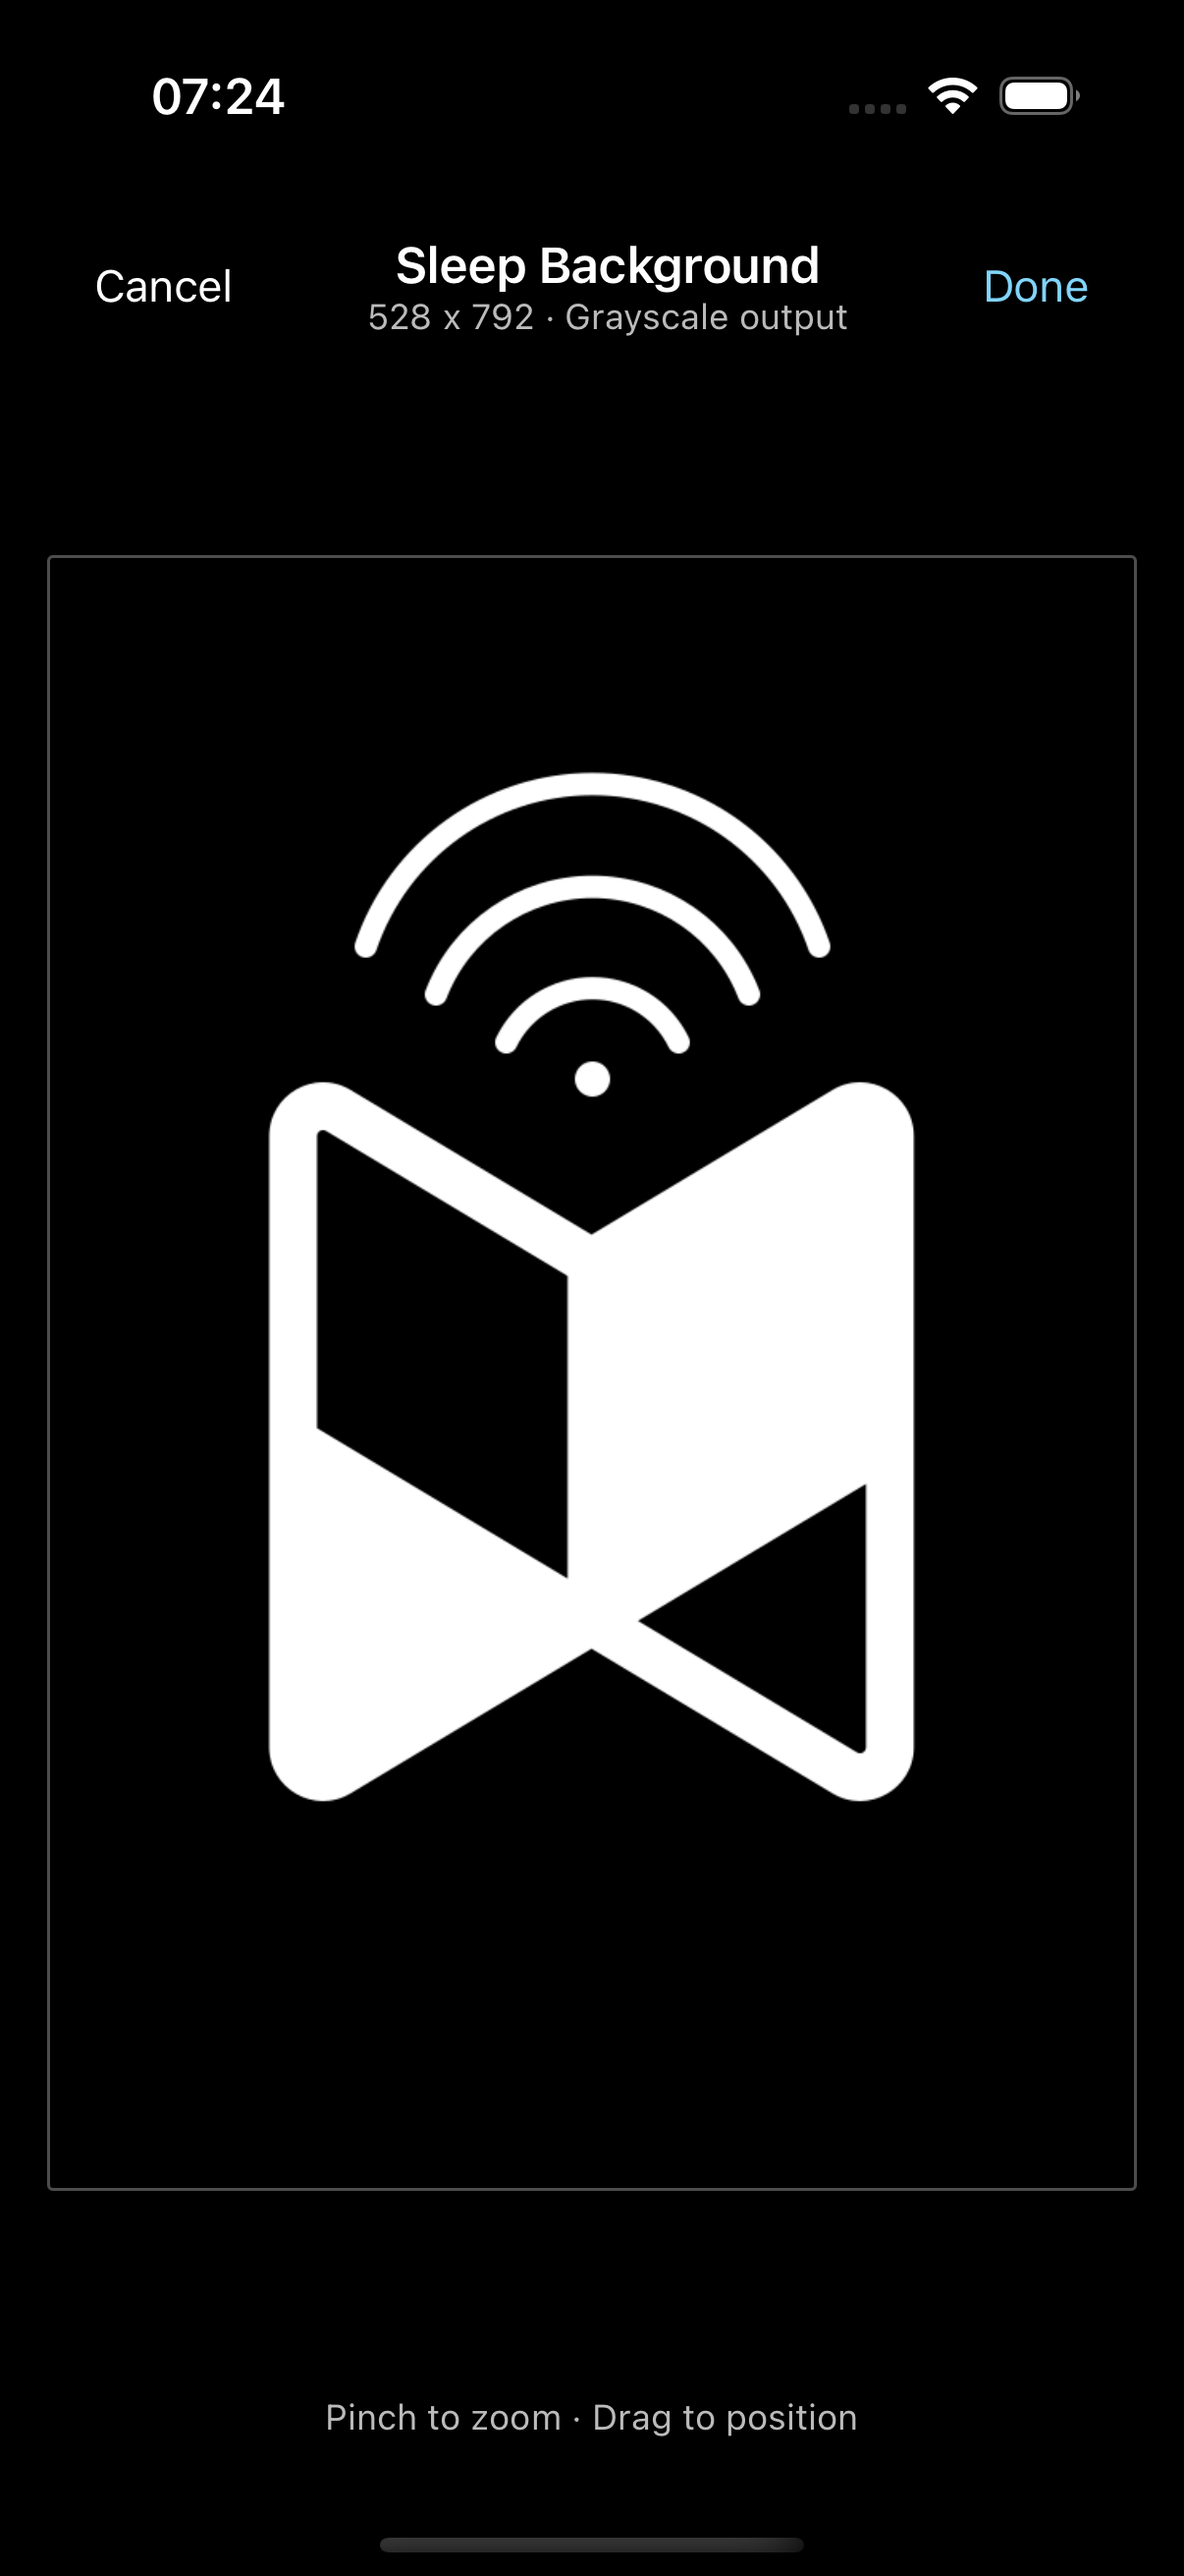
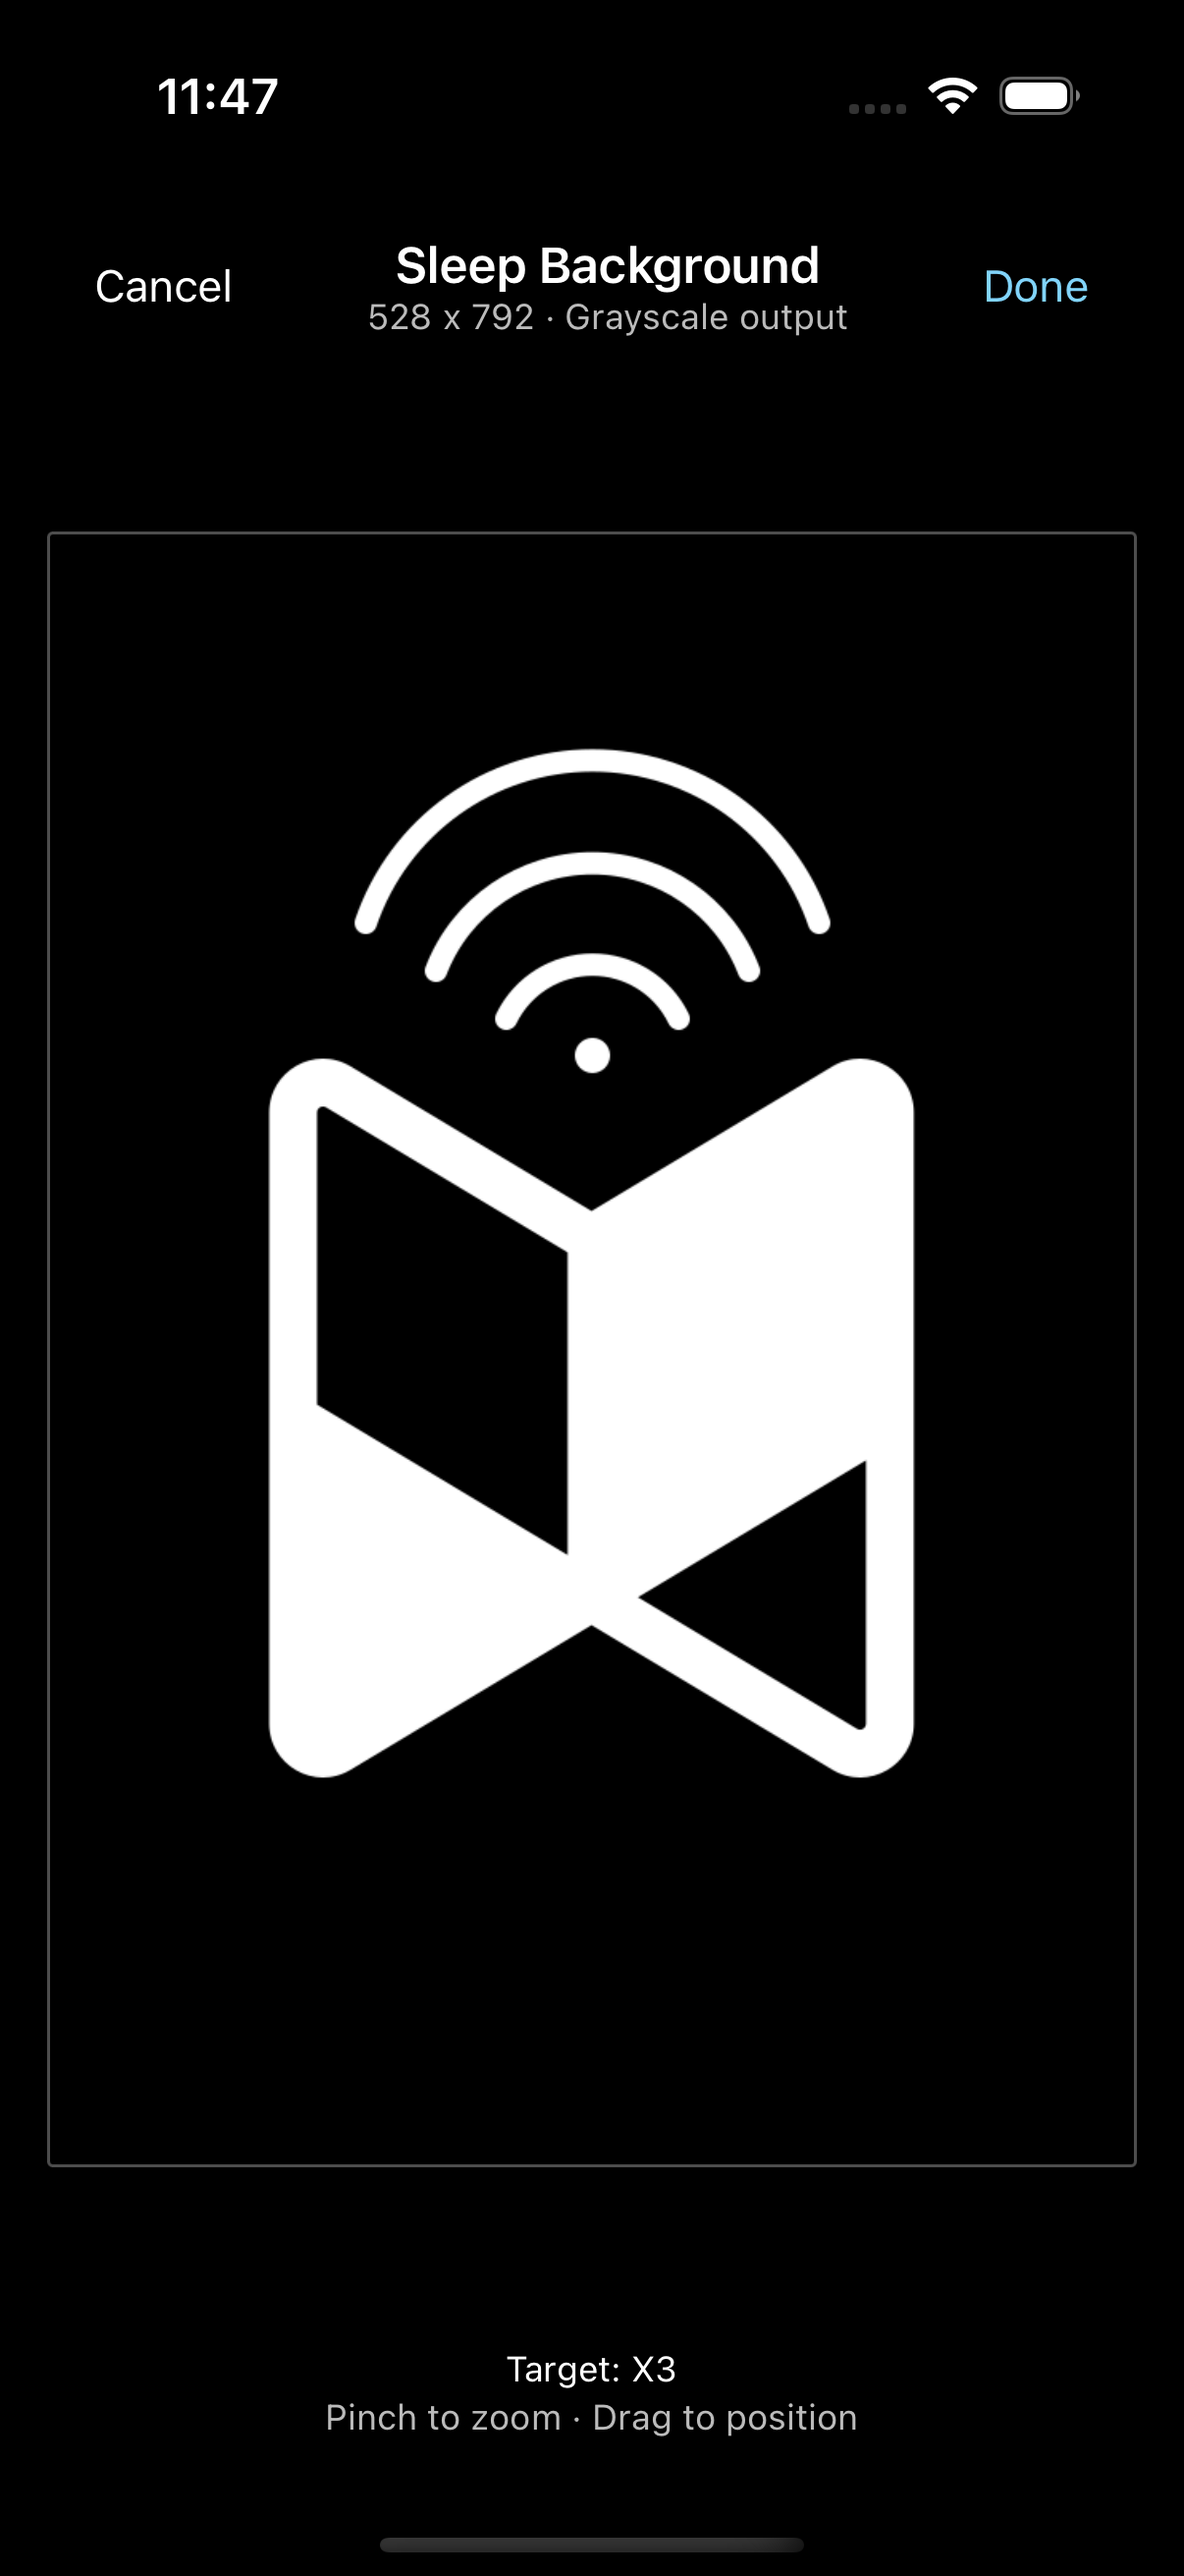
Require a known target for offline sleep-image crops

diff --git a/scripts/reader-profiles-test.ts b/scripts/reader-profiles-test.ts
@@ -6,7 +6,7 @@ import { act, create, type ReactTestRenderer } from 'react-test-renderer';
 import UPNG from 'upng-js';
 import { getReaderProfile, getReaderName } from '../constants/ReaderProfiles';
 import { fitCropFrame, getSourceCrop } from '../utils/crop-geometry';
-import type { DeviceFile } from '../types/device';
+import type { DeviceFile, DeviceStatus } from '../types/device';
 
 const written = new Map<string, Uint8Array>();
 const actions: any[] = [];
@@ -20,7 +20,24 @@ const pending: { ip: string; path: string; resolve: (files: DeviceFile[]) => voi
 const loader = Module as any;
 const originalLoad = loader._load;
 loader._load = function(id: string, parent: unknown, isMain: boolean) {
-  if (id === 'react-native') return { Platform: { OS: 'ios' } };
+  if (id === 'react-native') return {
+    Platform: { OS: 'ios' }, StyleSheet: { create: (styles: unknown) => styles },
+    Image: { getSize: (_uri: string, loaded: (width: number, height: number) => void) => loaded(1600, 1200) },
+    ActivityIndicator: 'ActivityIndicator', View: 'View', Alert: { alert: (...args: unknown[]) => assert.fail(JSON.stringify(args)) },
+  };
+  if (id === 'tamagui') return { YStack: 'YStack', XStack: 'XStack', Text: 'Text', Button: 'Button' };
+  if (id === 'expo-router') return { router: { back: () => {} }, useLocalSearchParams: () => ({ imageUri: 'file:///image.png' }) };
+  if (id === 'react-native-safe-area-context') return { SafeAreaProvider: 'SafeAreaProvider', SafeAreaView: 'SafeAreaView' };
+  if (id === 'expo-status-bar') return { StatusBar: 'StatusBar' };
+  if (id === 'react-native-gesture-handler') {
+    const gesture = () => { const chain = { onUpdate: () => chain, onEnd: () => chain, onChange: () => chain }; return chain; };
+    return { Gesture: { Pinch: gesture, Pan: gesture, Simultaneous: () => ({}) }, GestureDetector: 'GestureDetector' };
+  }
+  if (id === 'react-native-reanimated') return {
+    __esModule: true, default: { Image: 'AnimatedImage' },
+    useSharedValue: (value: number) => React.useRef({ value }).current,
+    useAnimatedStyle: (style: () => unknown) => style(),
+  };
   if (id === 'expo-sharing') return {};
   if (id === 'expo-file-system') return { File: MemoryFile, Paths: { document: 'memory:' }, Directory: class {
     uri: string; exists = true;
@@ -45,11 +62,14 @@ let store: typeof import('../stores/device-store').useDeviceStore;
 let uploads: typeof import('../stores/upload-store').useUploadStore;
 let useBrowser: typeof import('../hooks/use-file-browser').useFileBrowser;
 let processSleep: typeof import('../services/sleep-background').processAndQueueSleepBackground;
+let SleepPreview: typeof import('../app/sleep-preview').default;
+(globalThis as any).React = React;
 try {
   store = require('../stores/device-store').useDeviceStore;
   uploads = require('../stores/upload-store').useUploadStore;
   useBrowser = require('../hooks/use-file-browser').useFileBrowser;
   processSleep = require('../services/sleep-background').processAndQueueSleepBackground;
+  SleepPreview = require('../app/sleep-preview').default;
 } finally { loader._load = originalLoad; }
 (globalThis as any).IS_REACT_ACT_ENVIRONMENT = true;
 const file = (name: string): DeviceFile => ({ name, size: 10, isDirectory: false, isEpub: true });
@@ -88,6 +108,64 @@ test('both reader crops survive resizing and queue real BMPs at native portrait 
     assert.equal(bmp[pixel + 1], bmp[pixel + 2]);
     assert.equal(bmp.length, job.fileSize);
   }
+});
+
+async function mountPreview(status: DeviceStatus | null) {
+  let root!: ReactTestRenderer;
+  await act(async () => {
+    store.setState({ deviceStatus: status });
+    uploads.setState({ jobs: [] });
+    root = create(React.createElement(SleepPreview));
+  });
+  await act(async () => root.root.findByProps({ testID: 'SleepPreview.Canvas' }).props.onLayout({
+    nativeEvent: { layout: { width: 390, height: 620 } },
+  }));
+  return root;
+}
+
+async function confirmBmp(root: ReactTestRenderer, model: 'X3' | 'X4') {
+  const done = root.root.findByProps({ testID: 'SleepPreview.Done' });
+  assert.equal(done.props.disabled, false);
+  await act(async () => done.props.onPress());
+  const job = uploads.getState().jobs.at(-1)!;
+  const bmp = Buffer.from(written.get(job.fileUri)!);
+  const profile = getReaderProfile(model)!;
+  assert.equal(bmp.readInt32LE(18), profile.width);
+  assert.equal(Math.abs(bmp.readInt32LE(22)), profile.height);
+}
+
+test('offline preview waits for a target and adopts a delayed X3 status before generating its BMP', async () => {
+  const root = await mountPreview(null);
+  assert.equal(root.root.findByProps({ testID: 'SleepPreview.Done' }).props.disabled, true);
+  assert.equal(root.root.findAllByProps({ testID: 'SleepPreview.CropFrame' }).length, 0);
+  await act(async () => root.root.findByProps({ testID: 'SleepPreview.Done' }).props.onPress());
+  assert.equal(uploads.getState().jobs.length, 0);
+  await act(async () => store.getState().updateDeviceStatus({ device: 'X3' } as DeviceStatus));
+  assert.equal(root.root.findByProps({ testID: 'SleepPreview.OutputFormat' }).props.children, '528 x 792 · Grayscale output');
+  await confirmBmp(root, 'X3');
+  await act(async () => root.unmount());
+});
+
+test('explicit offline targets keep the chosen crop and BMP when another reader connects', async () => {
+  for (const model of ['X3', 'X4'] as const) {
+    const root = await mountPreview(null);
+    await act(async () => root.root.findByProps({ testID: `SleepPreview.Reader.${model}` }).props.onPress());
+    const frame = root.root.findByProps({ testID: 'SleepPreview.CropFrame' }).props.style;
+    await act(async () => store.getState().updateDeviceStatus({ device: model === 'X3' ? 'X4' : 'X3' } as DeviceStatus));
+    assert.deepEqual(root.root.findByProps({ testID: 'SleepPreview.CropFrame' }).props.style, frame);
+    await confirmBmp(root, model);
+    await act(async () => root.unmount());
+  }
+});
+
+test('actual legacy status keeps X4 compatibility while an unknown reported model stays blocked', async () => {
+  const legacy = await mountPreview({ version: '1.2.0' } as DeviceStatus);
+  await confirmBmp(legacy, 'X4');
+  await act(async () => legacy.unmount());
+  const unknown = await mountPreview({ device: 'Unknown' } as DeviceStatus);
+  assert.equal(unknown.root.findByProps({ testID: 'SleepPreview.Done' }).props.disabled, true);
+  assert.equal(unknown.root.findAllByProps({ testID: 'SleepPreview.ReaderChoice' }).length, 0);
+  await act(async () => unknown.unmount());
 });
 
 test('switching readers resets to root and discards old-reader results, errors and loading completion', async () => {

diff --git a/app/sleep-preview.tsx b/app/sleep-preview.tsx
@@ -25,8 +25,13 @@ const MAX_ZOOM = 5;
 
 export default function SleepPreviewScreen() {
   const { imageUri } = useLocalSearchParams<{ imageUri: string }>();
-  // Keep the preview and queued output identical even if the reader changes.
-  const [profile] = useState(() => getReaderProfile(useDeviceStore.getState().deviceStatus?.device));
+  const deviceStatus = useDeviceStore((state) => state.deviceStatus);
+  // No status is different from a legacy response that omits the model field.
+  // Once chosen, keep preview and output identical even if the reader changes.
+  const [profile, setProfile] = useState(() => deviceStatus ? getReaderProfile(deviceStatus.device) : null);
+  useEffect(() => {
+    if (deviceStatus) setProfile((selected) => selected ?? getReaderProfile(deviceStatus.device));
+  }, [deviceStatus]);
   const [canvas, setCanvas] = useState({ width: 0, height: 0 });
   const [imageSize, setImageSize] = useState<{ width: number; height: number } | null>(null);
   const [processing, setProcessing] = useState(false);
@@ -57,6 +62,13 @@ export default function SleepPreviewScreen() {
   const savedScale = useSharedValue(MIN_ZOOM);
   const translateX = useSharedValue(0);
   const translateY = useSharedValue(0);
+
+  useEffect(() => {
+    scale.value = MIN_ZOOM;
+    savedScale.value = MIN_ZOOM;
+    translateX.value = 0;
+    translateY.value = 0;
+  }, [profile, scale, savedScale, translateX, translateY]);
 
   // Clamp pan so image always covers the frame
   const clampPan = useCallback(
@@ -173,7 +185,7 @@ export default function SleepPreviewScreen() {
         </Button>
         <YStack alignItems="center" flex={1} minWidth={0}>
           <Text color="#fff" fontSize="$4" fontWeight="600" textAlign="center">Sleep Background</Text>
-          <Text testID="SleepPreview.OutputFormat" color="$gray8" fontSize="$2">{profile ? `${profile.width} x ${profile.height} · Grayscale output` : 'Unsupported reader display'}</Text>
+          <Text testID="SleepPreview.OutputFormat" color="$gray8" fontSize="$2">{profile ? `${profile.width} x ${profile.height} · Grayscale output` : deviceStatus ? 'Unsupported reader display' : 'Choose a reader'}</Text>
         </YStack>
         <Button
           size="$3"
@@ -188,9 +200,31 @@ export default function SleepPreviewScreen() {
         </Button>
       </XStack>
 
+      {!deviceStatus && (
+        <YStack testID="SleepPreview.ReaderChoice" padding="$3" gap="$2" alignItems="center">
+          <Text testID="SleepPreview.ReaderChoiceLabel" color="#fff" fontSize="$3">Reader for this image</Text>
+          <XStack gap="$3">
+            {(['X3', 'X4'] as const).map((model) => (
+              <Button
+                key={model}
+                testID={`SleepPreview.Reader.${model}`}
+                minHeight={44}
+                disabled={processing}
+                accessibilityState={{ selected: profile?.model === model }}
+                backgroundColor={profile?.model === model ? '#27566b' : '#333'}
+                color="#fff"
+                onPress={() => setProfile(getReaderProfile(model))}
+              >
+                {model}
+              </Button>
+            ))}
+          </XStack>
+        </YStack>
+      )}
+
       {/* Crop area */}
       <View style={styles.cropContainer} testID="SleepPreview.Canvas" onLayout={(event) => setCanvas(event.nativeEvent.layout)}>
-        {imageSize ? (
+        {imageSize && profile ? (
           <View testID="SleepPreview.CropFrame" style={[styles.imageContainer, { width: frame.width, height: frame.height }]}>
             <GestureDetector gesture={composedGesture}>
               <Animated.Image
@@ -207,9 +241,13 @@ export default function SleepPreviewScreen() {
               />
             </GestureDetector>
           </View>
-        ) : (
+        ) : !imageSize ? (
           <YStack flex={1} alignItems="center" justifyContent="center">
             <ActivityIndicator color="#fff" size="large" />
+          </YStack>
+        ) : (
+          <YStack testID="SleepPreview.NoReader" flex={1} alignItems="center" justifyContent="center" padding="$4">
+            <Text color="#fff" textAlign="center">{deviceStatus ? 'This reader has no supported sleep-image profile.' : 'Choose X3 or X4, or connect your reader.'}</Text>
           </YStack>
         )}
       </View>
@@ -223,9 +261,10 @@ export default function SleepPreviewScreen() {
         backgroundColor="rgba(0,0,0,0.8)"
         zIndex={10}
       >
-        <Text color="$gray8" fontSize="$2" textAlign="center">
-          Pinch to zoom &middot; Drag to position
-        </Text>
+        <YStack alignItems="center" gap="$1">
+          {profile && <Text testID="SleepPreview.TargetModel" color="#fff" fontSize="$2">Target: {profile.model}</Text>}
+          <Text color="$gray8" fontSize="$2" textAlign="center">Pinch to zoom &middot; Drag to position</Text>
+        </YStack>
       </XStack>
 
       {/* Processing overlay */}

diff --git a/README.md b/README.md
@@ -235,4 +235,4 @@ Private
 
 ### X3 and X4 readers
 
-The app uses the same CrossPoint HTTP/WebSocket file-transfer API on both readers. Firmware 1.3+ reports its model, shown in Settings and Connection. Sleep images use 528 × 792 for X3 and 480 × 800 for X4; firmware without a model field retains the legacy X4 size. Other reported models can still transfer files, but sleep-image generation requires a known display profile. Format availability continues to follow firmware capabilities.
+The app uses the same CrossPoint HTTP/WebSocket file-transfer API on both readers. Firmware 1.3+ reports its model, shown in Settings and Connection. Sleep images use 528 × 792 for X3 and 480 × 800 for X4; a received firmware status without a model field retains the legacy X4 size. When preparing an image offline, choose X3 or X4 before cropping. A delayed reader status supplies the profile if no choice has been made; an existing choice stays fixed so the exported image matches the preview. Other reported models can still transfer files, but sleep-image generation requires a known display profile. Format availability continues to follow firmware capabilities.
